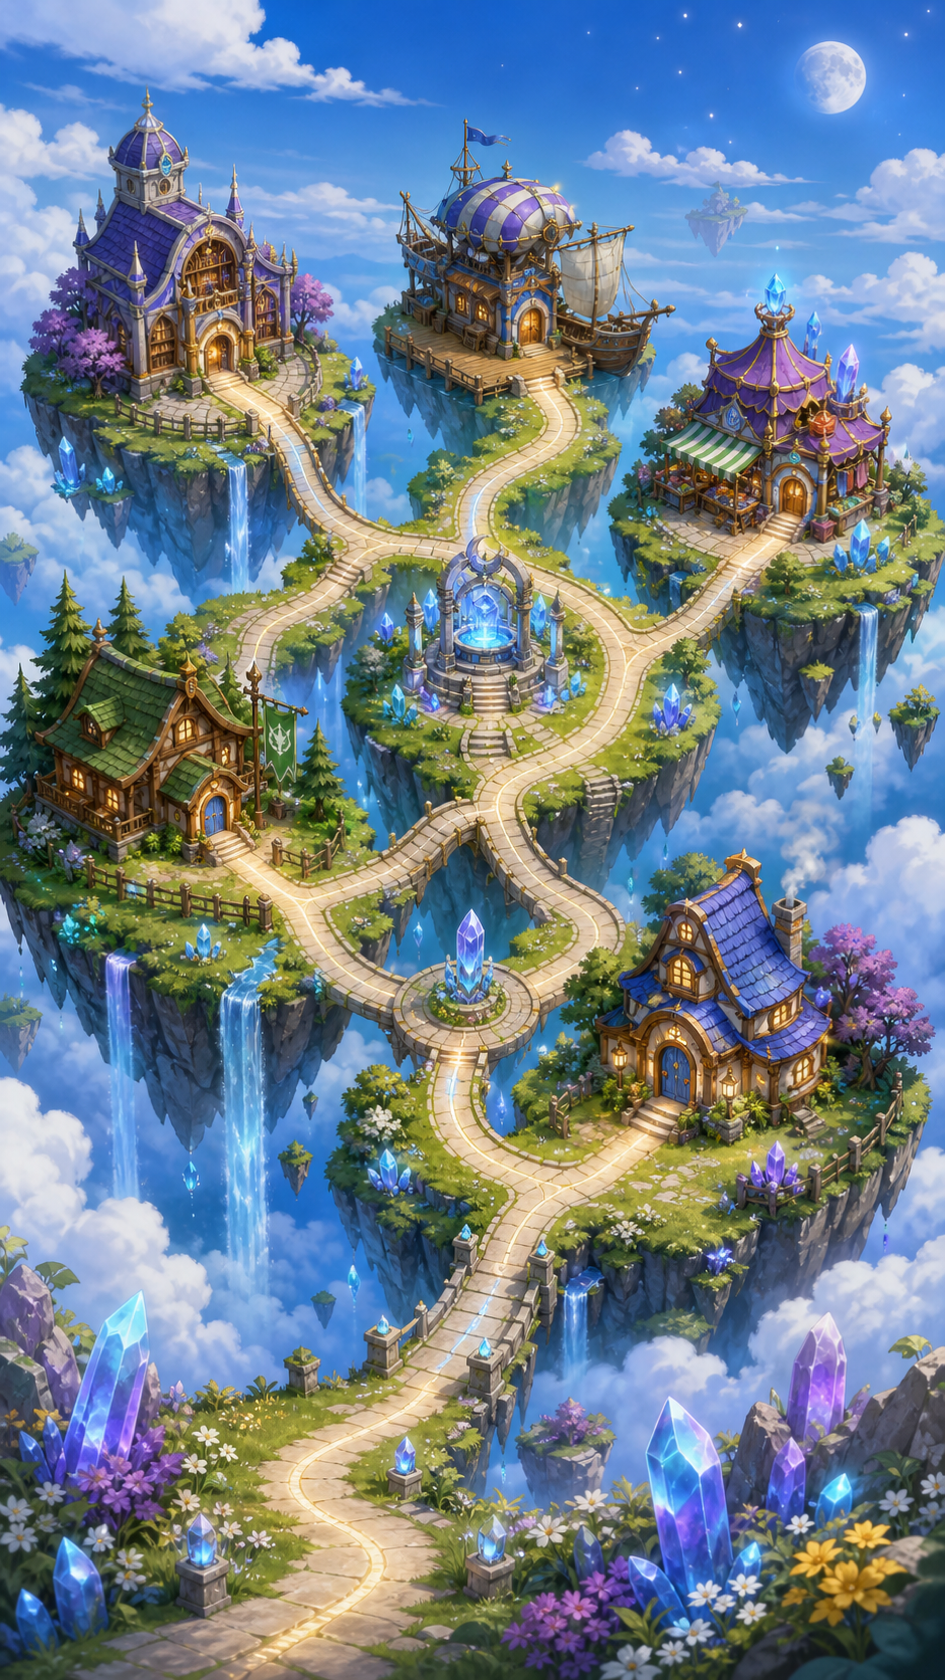
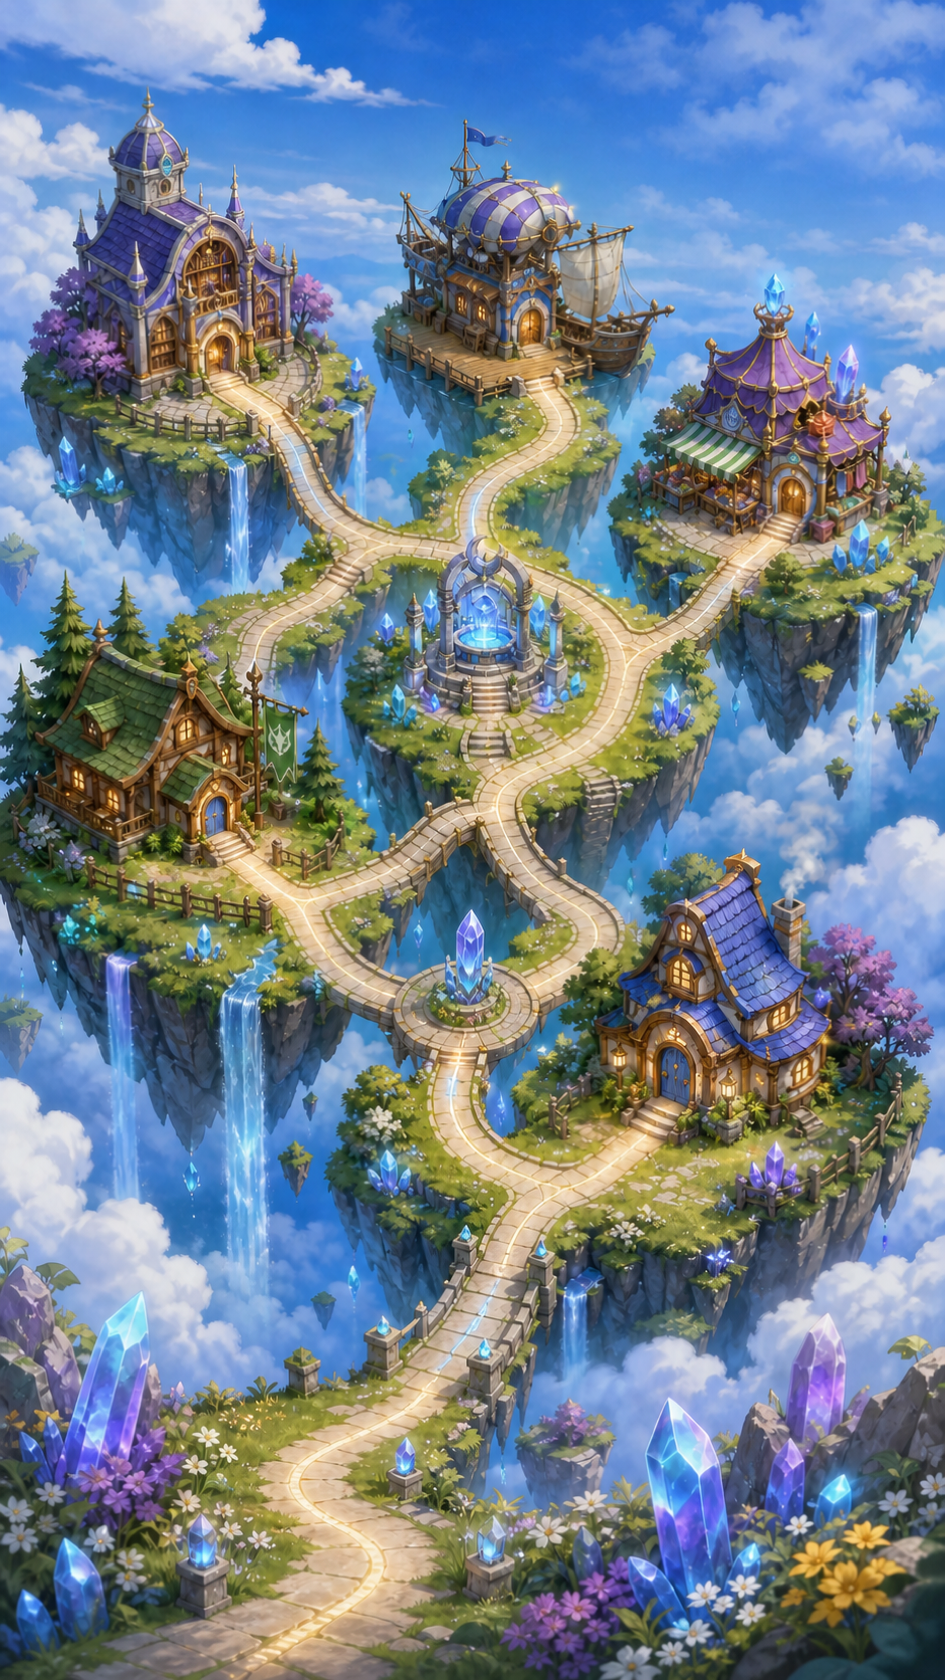
Fix reviewed batch B route calibration

diff --git a/src/workRouteBatches/batch-b.js b/src/workRouteBatches/batch-b.js
@@ -173,11 +173,11 @@ export const WORK_ROUTE_BATCH_B = Object.freeze({
     ]),
   }),
 
-  medieval: theme(point(21, 36), {
+  medieval: theme(point(24, 32), {
     market_square: route(point(74, 22), 560, [
-      point(21, 36),
-      point(25, 35),
-      point(30, 33),
+      point(24, 32),
+      point(28, 33),
+      point(33, 32.5),
       point(35, 31.5),
       point(41, 30.5),
       point(47, 30),
@@ -189,9 +189,9 @@ export const WORK_ROUTE_BATCH_B = Object.freeze({
       point(74, 22),
     ]),
     monastery: route(point(50, 22), 360, [
-      point(21, 36),
-      point(25, 35),
-      point(29, 34),
+      point(24, 32),
+      point(28, 33),
+      point(32, 33),
       point(33, 32.5),
       point(37, 31),
       point(41, 30),
@@ -203,9 +203,9 @@ export const WORK_ROUTE_BATCH_B = Object.freeze({
       point(50, 22),
     ]),
     town_armory: route(point(78, 37), 520, [
-      point(21, 36),
-      point(26, 36),
-      point(31, 35),
+      point(24, 32),
+      point(28, 33),
+      point(32, 33.5),
       point(37, 34),
       point(43, 32),
       point(49, 31),
@@ -217,9 +217,9 @@ export const WORK_ROUTE_BATCH_B = Object.freeze({
       point(78, 37),
     ]),
     horse_stable: route(point(60, 46), 430, [
-      point(21, 36),
-      point(25, 35),
-      point(30, 33),
+      point(24, 32),
+      point(28, 33),
+      point(33, 32.5),
       point(36, 31.5),
       point(42, 30.5),
       point(48, 31),
@@ -230,73 +230,76 @@ export const WORK_ROUTE_BATCH_B = Object.freeze({
       point(56, 45),
       point(60, 46),
     ], [
-      "M 21 36 L 25 35 L 30 33 L 36 31.5 L 42 30.5 L 48 31",
+      "M 24 32 L 28 33 L 33 32.5 L 36 31.5 L 42 30.5 L 48 31",
       "M 51 34 L 51 37 L 50 40 L 53 43 L 56 45 L 60 46",
     ]),
     watchtower: route(point(31, 19), 330, [
-      point(21, 36),
-      point(22, 34),
-      point(23, 32),
-      point(24, 30),
-      point(25, 28),
-      point(26, 26),
-      point(27, 24),
-      point(28, 22.5),
-      point(29, 21),
-      point(30, 20),
-      point(30.5, 19.5),
+      point(24, 32),
+      point(28, 33),
+      point(33, 32.5),
+      point(38, 31.5),
+      point(43, 30.5),
+      point(46, 29),
+      point(44, 27),
+      point(41, 25),
+      point(38, 23),
+      point(35, 21.5),
+      point(33, 20),
       point(31, 19),
     ]),
   }),
 
-  western_fantasy: theme(point(76, 47), {
-    guild: route(point(22, 23), 650, [
-      point(76, 47),
-      point(72, 45.5),
-      point(67, 44),
-      point(62, 42.5),
-      point(56, 41),
-      point(50, 40),
-      point(44, 39),
-      point(38, 37),
-      point(33, 34),
-      point(28, 30),
-      point(24, 26),
-      point(22, 23),
-    ]),
-    magic_academy: route(point(74, 24), 360, [
-      point(76, 47),
-      point(76, 45),
+  western_fantasy: theme(point(78, 42), {
+    guild: route(point(28, 22), 650, [
+      point(78, 42),
       point(75, 43),
-      point(75, 40),
-      point(74, 37),
-      point(73.5, 34),
-      point(73, 31),
-      point(73, 28),
-      point(73.5, 26),
-      point(74, 25),
-      point(74, 24.5),
-      point(74, 24),
+      point(71, 43.5),
+      point(67, 42),
+      point(64, 39),
+      point(63, 35),
+      point(61, 31),
+      point(57, 28),
+      point(52, 26),
+      point(46, 25),
+      point(40, 24),
+      point(34, 23),
+      point(30, 22.5),
+      point(28, 22),
     ]),
-    potion_shop: route(point(18, 42), 600, [
-      point(76, 47),
-      point(71, 46),
-      point(66, 45),
-      point(61, 44),
-      point(56, 43.5),
-      point(50, 43),
-      point(44, 43),
-      point(38, 43),
-      point(32, 42.5),
-      point(26, 42),
-      point(21, 42),
-      point(18, 42),
+    magic_academy: route(point(79, 22), 360, [
+      point(78, 42),
+      point(75, 43),
+      point(71, 43.5),
+      point(68, 42),
+      point(66, 39),
+      point(65, 35),
+      point(66, 32),
+      point(68, 29),
+      point(71, 27),
+      point(74, 25),
+      point(77, 23.5),
+      point(79, 22),
+    ]),
+    potion_shop: route(point(29, 39), 600, [
+      point(78, 42),
+      point(75, 43),
+      point(71, 44),
+      point(67, 44.5),
+      point(63, 45),
+      point(58, 45),
+      point(53, 45),
+      point(48, 45),
+      point(43, 44),
+      point(39, 42),
+      point(35, 40),
+      point(32, 39.5),
+      point(29, 39),
     ]),
     smithy: route(point(50, 43), 330, [
-      point(76, 47),
-      point(73, 46.5),
-      point(70, 46),
-      point(67, 45.5),
+      point(78, 42),
+      point(75, 43),
+      point(71, 44),
+      point(67, 44.5),
       point(64, 45),
       point(61, 44.5),
       point(58, 44),
@@ -307,8 +310,8 @@ export const WORK_ROUTE_BATCH_B = Object.freeze({
       point(50, 43),
     ]),
     castle: route(point(50, 11), 710, [
-      point(76, 47),
-      point(72, 45),
+      point(78, 42),
+      point(74, 43),
       point(68, 42),
       point(64, 39),
       point(60, 35),
@@ -320,15 +323,15 @@ export const WORK_ROUTE_BATCH_B = Object.freeze({
       point(50, 13),
       point(50, 11),
     ], [
-      "M 76 47 L 72 45 L 68 42 L 64 39 L 60 35 L 56 31",
+      "M 78 42 L 74 43 L 68 42 L 64 39 L 60 35 L 56 31",
       "M 53 27 L 51 23 L 50.5 19 L 50 16 L 50 13 L 50 11",
     ]),
   }),
 
-  fantasy: theme(point(76, 65), {
+  fantasy: theme(point(71, 64), {
     dragon_library: route(point(22, 18), 880, [
-      point(76, 65),
-      point(72, 64),
+      point(71, 64),
+      point(72, 65),
       point(67, 62),
       point(61, 59),
       point(56, 55),
@@ -344,8 +347,8 @@ export const WORK_ROUTE_BATCH_B = Object.freeze({
       point(22, 18),
     ]),
     sky_harbor: route(point(55, 22), 680, [
-      point(76, 65),
-      point(72, 64),
+      point(71, 64),
+      point(72, 65),
       point(67, 62),
       point(62, 59),
       point(57, 55),
@@ -359,8 +362,8 @@ export const WORK_ROUTE_BATCH_B = Object.freeze({
       point(55, 22),
     ]),
     enchantment_market: route(point(82, 30), 620, [
-      point(76, 65),
-      point(76, 62),
+      point(71, 64),
+      point(74, 62),
       point(73, 59),
       point(69, 56),
       point(65, 53),
@@ -375,8 +378,8 @@ export const WORK_ROUTE_BATCH_B = Object.freeze({
       point(82, 30),
     ]),
     ranger_lodge: route(point(30, 45), 540, [
-      point(76, 65),
-      point(72, 64),
+      point(71, 64),
+      point(72, 65),
       point(67, 62),
       point(62, 60),
       point(57, 58),
@@ -389,8 +392,8 @@ export const WORK_ROUTE_BATCH_B = Object.freeze({
       point(30, 45),
     ]),
     moonwell: route(point(50, 42), 410, [
-      point(76, 65),
-      point(73, 64),
+      point(71, 64),
+      point(72, 65),
       point(69, 62),
       point(65, 61),
       point(61, 59),
@@ -402,7 +405,7 @@ export const WORK_ROUTE_BATCH_B = Object.freeze({
       point(50, 43),
       point(50, 42),
     ], [
-      "M 76 65 L 73 64 L 69 62 L 65 61 L 61 59 L 57 57 L 54 54",
+      "M 71 64 L 72 65 L 69 62 L 65 61 L 61 59 L 57 57 L 54 54",
       "M 52 51 L 50 48 L 49.5 45 L 50 43 L 50 42",
     ]),
   }),

diff --git a/src/workRouteBatchB.test.js b/src/workRouteBatchB.test.js
@@ -17,6 +17,12 @@ const BATCH_B_THEME_IDS = Object.freeze([
   "fantasy",
 ]);
 
+const REVIEWED_HOME_DOORS = Object.freeze({
+  medieval: { x: 24, y: 32 },
+  western_fantasy: { x: 78, y: 42 },
+  fantasy: { x: 71, y: 64 },
+});
+
 const SVG_COMMAND_ARITY = Object.freeze({ M: 2, L: 2, C: 6 });
 const SVG_TOKEN_PATTERN = /[MLC]|[-+]?(?:\d+(?:\.\d*)?|\.\d+)(?:[eE][-+]?\d+)?/g;
 const SVG_COMMANDS = new Set(Object.keys(SVG_COMMAND_ARITY));
@@ -99,6 +105,12 @@ test("batch B route keys match the five place types for each theme", () => {
     const expectedPlaceTypes = theme.places.map((place) => place.type);
 
     assert.deepEqual(Object.keys(routeTheme.routes), expectedPlaceTypes, themeId);
+  }
+});
+
+test("reviewed batch B homes are anchored to their visible doors", () => {
+  for (const [themeId, homeDoor] of Object.entries(REVIEWED_HOME_DOORS)) {
+    assert.deepEqual(WORK_ROUTE_BATCH_B[themeId].home, homeDoor, themeId);
   }
 });
 

diff --git a/.superpowers/sdd/task-7-report.md b/.superpowers/sdd/task-7-report.md
@@ -5,6 +5,7 @@
 - Implemented `WORK_ROUTE_BATCH_B` for exactly five themes: `mystic_realm`, `underworld`, `medieval`, `western_fantasy`, and `fantasy`.
 - Calibrated 25 routes with authored `home`, `pin`, `distanceMeters`, 12+ normalized road-center `samples`, and uppercase `M`/`L` visible SVG segments.
 - Generated `docs/superpowers/qa/routes-batch-b-contact-sheet.png` as a 5x5 route QA sheet with home markers, destination markers, and dashed paths.
+- Applied the independent-review follow-up: corrected three home-door origins, recalibrated four reviewed routes, and cleared the fantasy upper-right selector area.
 - Final commit SHA is reported in the task response. Embedding the SHA in this committed report would change the SHA.
 
 ## Redraw Decisions
@@ -19,6 +20,22 @@
 - Did not use SVG, Canvas, manual illustration, or CLI fallback for redraws.
 - Copied selected generated outputs from `/Users/mypc/.codex/generated_images/019f5b67-da15-71f1-9d88-290eefed3075/` into `public/work-map-assets/`.
 - Resampled with `sips -z 1680 945` to preserve the full image without cropping while making the ratio exact.
+
+## Follow-up Image Edit
+
+- Edited `fantasy` with built-in `image_gen` to remove the moon, bright star points, and distant floating-island focal object from the upper-right selector-clearance area.
+- Copied the selected edit from `/Users/mypc/.codex/generated_images/019f5b67-da15-71f1-9d88-290eefed3075/exec-27f37bc1-95f3-4339-966d-e131ada02bdd.png`.
+- Normalized the selected edit to the required exact 945x1680 output.
+
+```text
+Use case: precise-object-edit
+Asset type: 9:16 mobile game work-route map background
+Input image: Image 1 is the edit target.
+Primary request: Edit only the upper-right approximately 12% width by 12% height selector-clearance area. Remove the bright moon, bright star points, and any small floating-island focal object from that clearance area. Replace them with quiet low-contrast blue sky and soft diffuse cloud texture that matches the surrounding illustration.
+Invariants: Preserve the exact portrait composition, dimensions, style, colors, lighting, all six buildings, every visible door, all roads, bridges, islands, crystals, waterfalls, flowers, and all content outside the upper-right clearance area. Do not move, redraw, crop, resize, or restyle any map destination or route surface.
+Constraints: The upper-right 12% x 12% must contain scenery-only quiet sky/clouds with no bright moon, focal object, building, door, destination, marker, route junction, or high-contrast isolated light. No text, labels, UI, markers, route overlays, characters, creatures, logos, or watermark.
+Avoid: changing any route geometry; altering building entrances; adding objects; destructive cropping; changing the 9:16 framing.
+```
 
 ## Redraw Prompts
 
@@ -70,13 +87,15 @@ Constraints: exactly six prominent buildings/structures, all six doors visible, 
 - Re-inspected the final 945x1680 assets before route calibration.
 - Authored route samples in normalized percentage coordinates over the final PNGs.
 - Used actual visible doors or road-mouth entrances for `home` and each route `pin`, then traced the visible road center through curves, bridges, stairs, loops, and shared road portions.
+- Follow-up home-door anchors are `medieval (24,32)`, `western_fantasy (78,42)`, and `fantasy (71,64)`.
+- Recalibrated `medieval/watchtower` through the central plaza branch and recalibrated `western_fantasy` guild, magic academy, and potion shop around buildings and walls on visible roads.
 - Added split `visibleSegments` where bridge, ledge, gate, or foreground occlusion should interrupt the route overlay.
 - Did not copy legacy/generated `placeMeta.route` arrays.
 
 ## Tests
 
-- `node --test src/workRouteBatchB.test.js`: 4 tests passed.
-- `npm test`: 95 tests passed.
+- `node --test src/workRouteBatchB.test.js`: 5 tests passed.
+- `npm test`: 96 tests passed.
 
 ## Visual QA
 
@@ -84,6 +103,8 @@ Constraints: exactly six prominent buildings/structures, all six doors visible, 
 - Inspected all 25 panels.
 - Corrected underworld dock/registry/pavilion routes to follow the bridge and lantern-roundabout road network.
 - Corrected the medieval stable route to travel through the plaza/gate road instead of cutting across the wall area.
+- Re-inspected all 25 regenerated panels after the follow-up and corrected the reviewed medieval and western paths.
+- Confirmed the fantasy upper-right approximately 12% x 12% contains only quiet sky/cloud scenery.
 
 ## Files
 
@@ -101,5 +122,4 @@ Constraints: exactly six prominent buildings/structures, all six doors visible, 
 ## Concerns
 
 - `WORK_ROUTE_BATCH_B` is standalone by design because this task forbids edits to `workRouteData.js`.
-- `fantasy` keeps a moon in the upper-right selector-clearance area; it is scenery only, with no building, door, route junction, or destination marker.
 - `medieval` retains non-human stable animals from the pre-existing passing map; there are no baked UI elements or human characters.